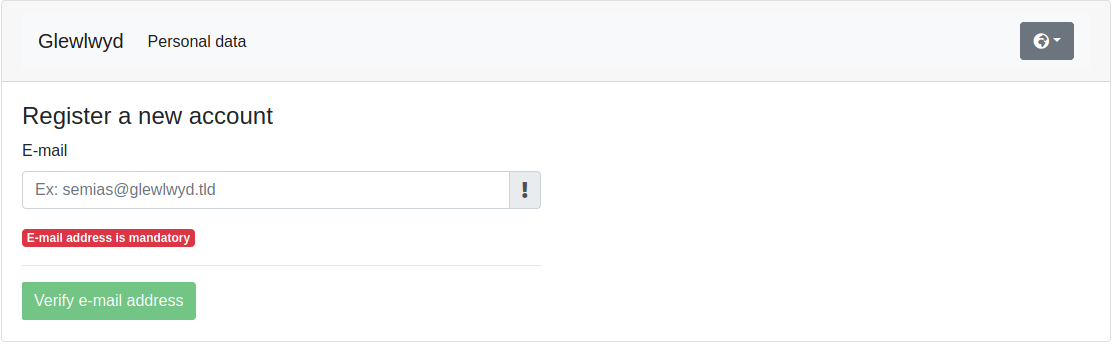
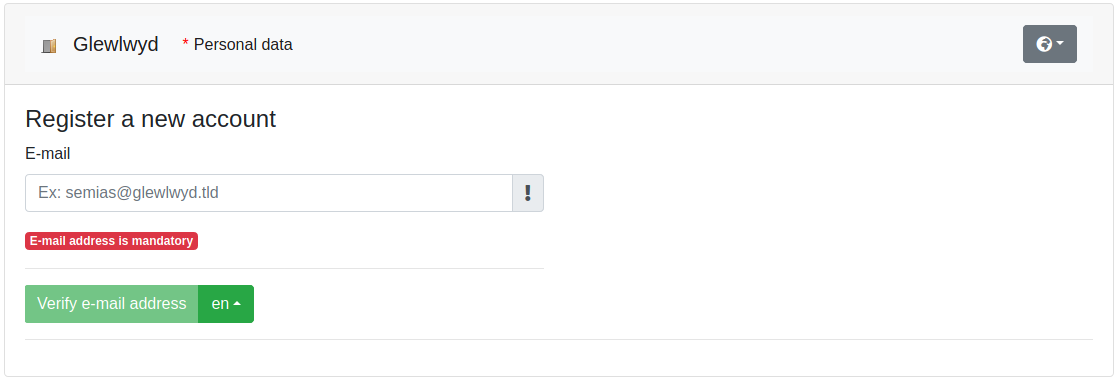
Update documentation for multi-lang e-mails

diff --git a/docs/EMAIL.md b/docs/EMAIL.md
@@ -67,13 +67,29 @@ password used to authenticate to the SMTP server if required by the SMTP server,
 
 Address used as sender in the e-mails, required.
 
+### Content-Type
+
+Content-Type for the e-mails, default is plain text but you can set an HTML body if youo need to.
+
+### User lang property
+
+User property which will contain the default lang value used for the e-mail templates. The lang value must be an exact match of the lang template. If the user lang doens't exist in the templates or if the user has no lang property, the e-mail template will use the default language.
+
+### Lang
+
+Dropdown value to select, add or remove lang templates for the e-mails.
+
+### Default lang
+
+Checkbox to specify what lang is the default language. In case the user has no language value or its language value doesn't exist in the templates.
+
 ### E-mail subject
 
-Subject used on the e-mails, required.
+Subject used on the e-mails for the current lang, required.
 
 ### E-mail body, the pattern {CODE} will be replaced by the code.
 
-The pattern for the body on the e-mails, You must use at least once the string `{CODE}` in the pattern to be replaced by the code.
+The pattern for the body on the e-mails for the current lang, You must use at least once the string `{CODE}` in the pattern to be replaced by the code.
 
 Example, by using the following e-mail pattern:
 

diff --git a/docs/REGISTER.md b/docs/REGISTER.md
@@ -107,13 +107,21 @@ Address used as sender in the e-mails, required.
 
 Content-type for the e-mail content, default is `text/plain; charset=utf-8`
 
+### Lang
+
+Dropdown value to select, add or remove lang templates for the e-mails.
+
+### Default lang
+
+Checkbox to specify what lang is the default language.
+
 ### E-mail subject
 
-Subject used on the e-mails, required.
+Subject used on the e-mails for the current lang, required.
 
 ### E-mail body
 
-The pattern for the body on the e-mails, You must use at least once the string `{CODE}` in the pattern to be replaced by the code. The pattern {TOKEN} will be replaced by the token used to build the url in the e-mail to get direct access to the validation step without entering the code.
+The pattern for the body on the e-mails for the current lang, You must use at least once the string `{CODE}` in the pattern to be replaced by the code. The pattern {TOKEN} will be replaced by the token used to build the url in the e-mail to get direct access to the validation step without entering the code.
 
 Example, by using the following e-mail pattern:
 
